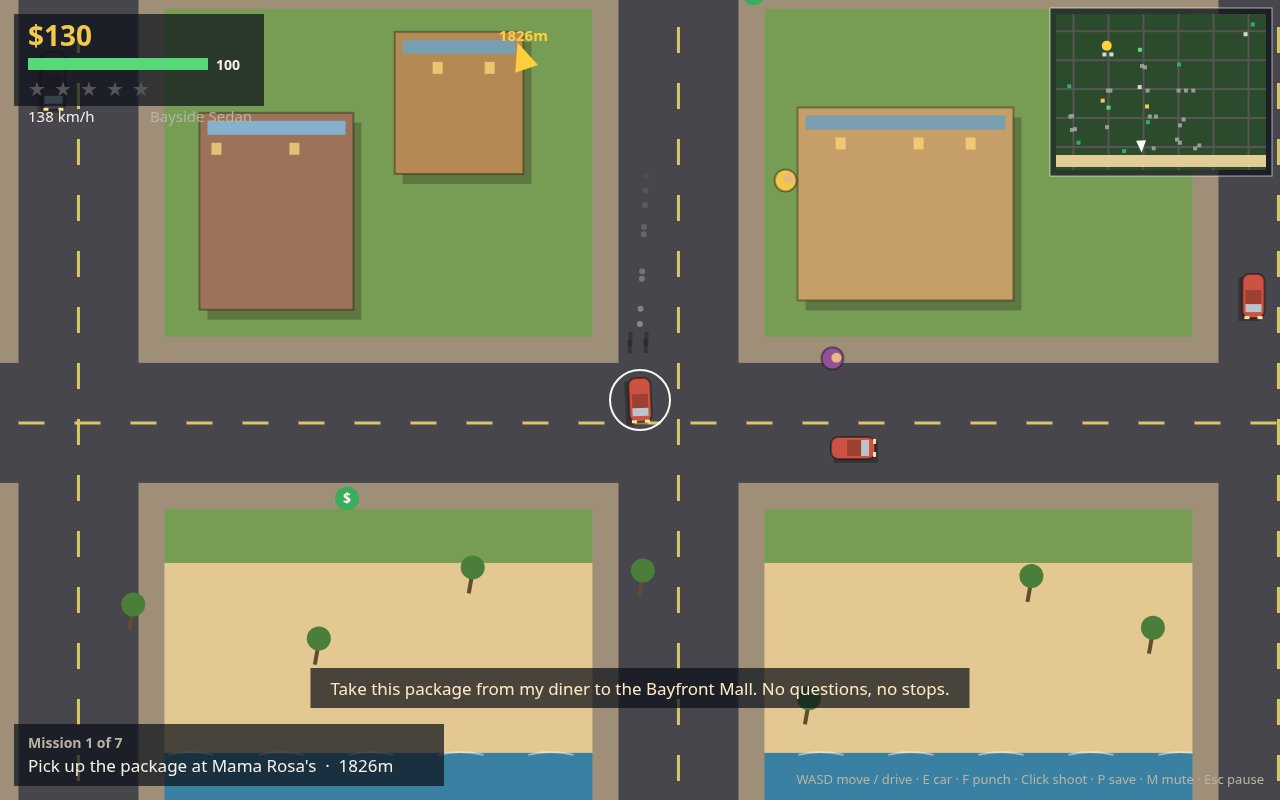
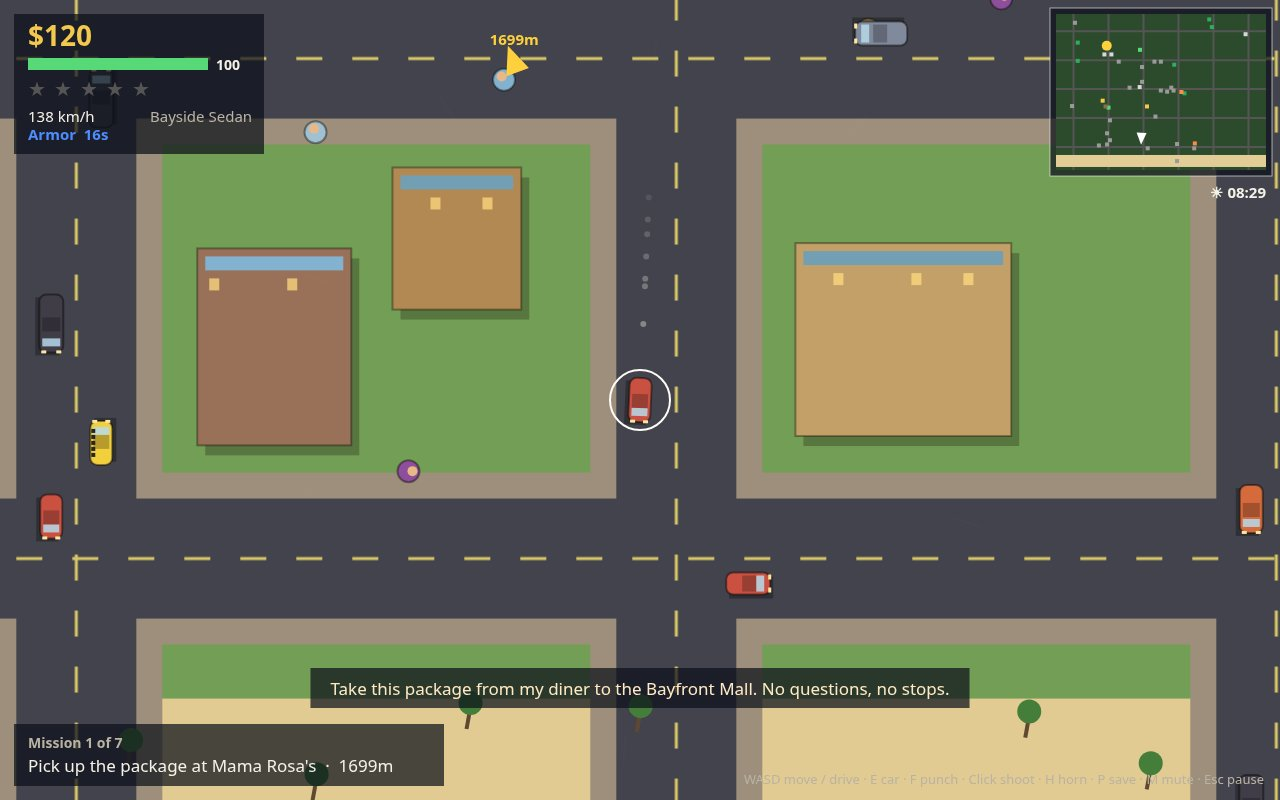
Neon Bay 200x: iterasi 71-73 — siklus siang/malam + jam in-game

diff --git a/game/src/render.js b/game/src/render.js
@@ -649,6 +649,11 @@ export function createRenderer(canvas) {
       }
     }
     drawMinimap(state);
+    // In-game clock: the 4-minute day cycle reads as a 24-hour clock, starting at 08:00.
+    const hours = Math.floor((8 + state.time / 10) % 24);
+    const mins = Math.floor((((8 + state.time / 10) % 24) % 1) * 60);
+    const night = hours < 6 || hours >= 18;
+    text(`${night ? '☾' : '☀'} ${String(hours).padStart(2, '0')}:${String(mins).padStart(2, '0')}`, viewW - 14, 14 + MINIMAP.h + 28, 15, PALETTE.hudText, 'right', true);
     // Objective, bottom-left.
     if (state.objective) {
       ctx.fillStyle = PALETTE.hudPanel;
@@ -782,8 +787,18 @@ export function createRenderer(canvas) {
         }
       }
     }
-    // A warm sunset wash over everything.
-    ctx.fillStyle = 'rgba(255,150,60,0.06)';
+    // A slow day cycle (4 minutes = 24 in-game hours, starting at 08:00):
+    // the wash over the city shifts from clear noon to a warm sunset,
+    // then a dark blue night, and back to a pale dawn.
+    const hour = (8 + state.time / 10) % 24;
+    const dayness = Math.sin(((hour - 6) / 12) * Math.PI);
+    if (dayness > 0.35) {
+      ctx.fillStyle = 'rgba(255,150,60,0.03)';
+    } else if (dayness > -0.25) {
+      ctx.fillStyle = `rgba(255,120,50,${(0.08 * (0.35 - dayness) / 0.6).toFixed(3)})`;
+    } else {
+      ctx.fillStyle = `rgba(10,12,40,${(0.26 * Math.min(1, (-dayness - 0.25) / 0.75)).toFixed(3)})`;
+    }
     ctx.fillRect(0, 0, viewW, viewH);
     if (screen === SCREEN_TITLE) {
       drawPanel('NEON BAY', [

diff --git a/ITERATIONS-200X.md b/ITERATIONS-200X.md
@@ -93,3 +93,6 @@ TERUS hingga tercapai. Setiap iterasi = perubahan nyata + uji.**
 | 68 | Armor: pickup memberi 20 dtk + banner | headless test | KEEP |
 | 69 | Armor: decay per detik; damage peluru + tabrakan jadi setengah | headless test (armor test) | KEEP |
 | 70 | Armor: render perisai + cincin biru berdenyut + HUD "Armor Xs" + panel HUD lebih tinggi | headless test | KEEP |
+| 71 | Siklus siang/malam: overlay berubah selama 4 menit (siang→senja→malam→fajar) | headless test + screenshot | KEEP |
+| 72 | Jam in-game di HUD (ikon ☀/☾ + HH:MM) | screenshot | KEEP |
+| 73 | Perbaiki fase siklus: mulai 08:00 pagi (bukan tengah malam yang gelap) + jam cocok | screenshot 2-drive | KEEP |
